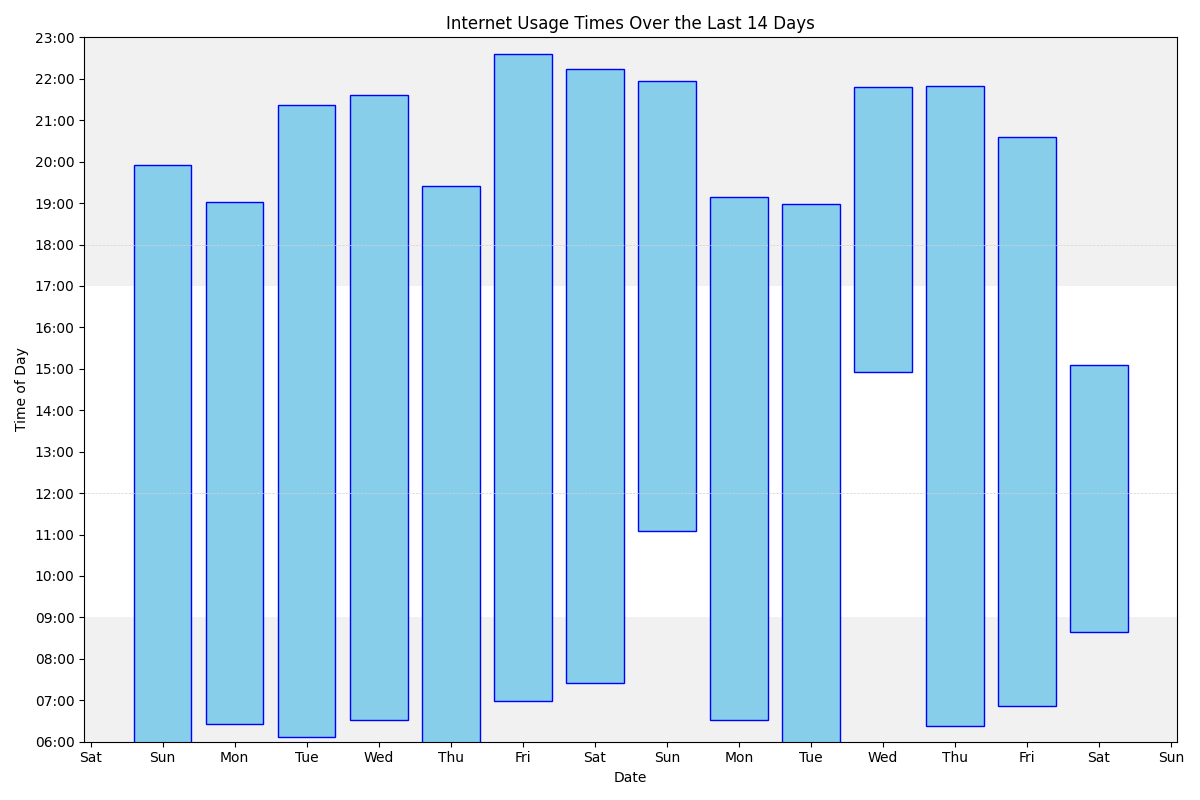
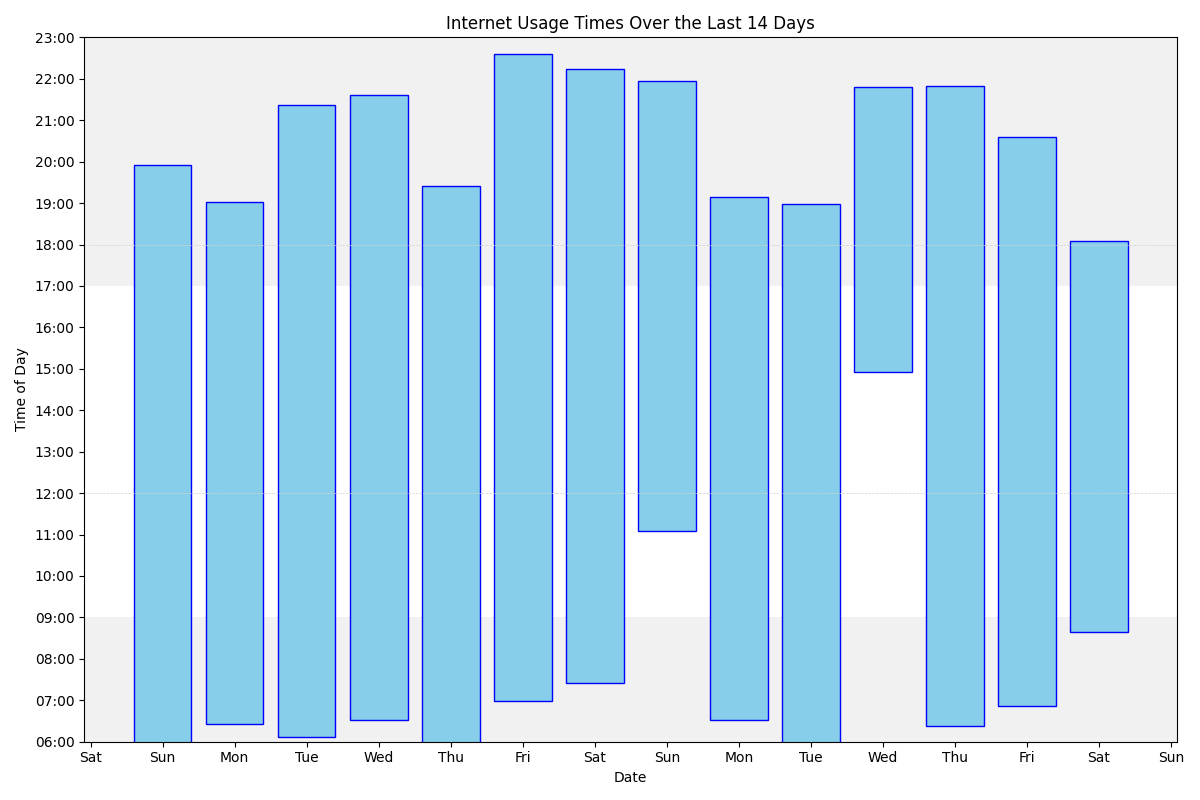
Update

Changed region(s): [[0.8633, 0.2812, 0.9558, 0.4688]]

diff --git a/index.md b/index.md
@@ -68,17 +68,17 @@ ul>li::after {
 <h3> Most common sites</h3>
 With number of accesses/minutes in parentheses
 
-<ol><li>www.google.com (1774)</li>
+<ol><li>www.google.com (1782)</li>
 <li>outlook.office365.com (1017)</li>
-<li>bsky.app (849)</li>
-<li>mail.google.com (838)</li>
+<li>bsky.app (854)</li>
+<li>mail.google.com (840)</li>
 <li>outlook.office.com (712)</li>
 <li>docs.google.com (603)</li>
-<li>www.facebook.com (522)</li>
+<li>www.facebook.com (526)</li>
 <li>rhul-my.sharepoint.com (277)</li>
-<li>chatgpt.com (258)</li>
-<li>www.reddit.com (247)</li>
-<li>www.amazon.co.uk (244)</li>
+<li>chatgpt.com (260)</li>
+<li>www.amazon.co.uk (252)</li>
+<li>www.reddit.com (250)</li>
 <li>moodle.royalholloway.ac.uk (228)</li>
 <li>login.microsoftonline.com (225)</li>
 <li>www.linkedin.com (218)</li>
@@ -105,6 +105,57 @@ With number of accesses/minutes in parentheses
 <ul></ul>
 
 <H3>Saturday, 18/01/25</H3>
+
+<br>
+
+<ul><li> 18:04 www.amazon.co.uk</li>
+<li class='same'> 18:03 www.amazon.co.uk</li>
+<li class='same'> 18:02 www.amazon.co.uk</li>
+<li class='same'> 18:01 www.amazon.co.uk</li>
+<li> 18:00 <a href="https://en.wikipedia.org/wiki/Kobo_eReader">Kobo eReader - Wikipedia</a></li>
+<li> 18:00 www.ebay.co.uk</li>
+<li> 17:59 bsky.app</li>
+<li> 17:59 signin.ebay.co.uk</li>
+<li> 17:57 <a href="https://en.wikipedia.org/wiki/Kobo_Mini">Kobo Mini - Wikipedia</a></li>
+<li> 17:56 www.ebay.co.uk</li>
+<li class='same'> 17:55 www.ebay.co.uk</li>
+<li class='same'> 17:54 www.ebay.co.uk</li>
+<li> 17:54 www.vinted.co.uk</li>
+<li class='same'> 17:53 www.vinted.co.uk</li>
+<li> 17:53 appleid.apple.com</li>
+<li> 17:52 www.vinted.co.uk</li>
+<li> 17:52 bsky.app</li>
+<li> 17:52 <a href="https://en.wikipedia.org/wiki/Kobo_eReader">Kobo eReader - Wikipedia</a></li>
+<li> 17:52 www.google.com</li>
+<li> 17:51 www.reddit.com</li>
+<li> 17:51 www.google.com</li>
+<li class='same'> 17:50 www.google.com</li>
+<li> 17:49 apps.apple.com</li>
+<li> 17:49 www.google.com</li>
+<li class='same'> 17:47 www.google.com</li>
+<li> 17:45 scratch.mit.edu</li>
+<li> 17:45 www.google.com</li>
+<li> 17:44 www.facebook.com</li>
+<li> 17:44 <a href="https://en.wikipedia.org/wiki/Scratch_(programming_language)">Scratch (programming language) - Wikipedia</a></li>
+<li> 17:44 www.google.com</li>
+<li> 17:43 www.fiverr.com</li>
+<li class='same'> 17:42 www.fiverr.com</li>
+<li> 17:42 mail.google.com</li>
+<li> 17:42 www.facebook.com</li>
+<li> 17:38 chatgpt.com</li>
+<li class='same'> 17:37 chatgpt.com</li>
+<li> 17:35 www.fiverr.com</li>
+<li> 17:34 mail.google.com</li>
+<li> 17:34 gmail.com</li>
+<li> 17:34 www.fiverr.com</li>
+<li> 17:33 www.google.com</li>
+<li> 17:26 www.facebook.com</li>
+<li> 17:24 web.whatsapp.com</li>
+<li> 17:23 www.facebook.com</li>
+<li> 17:22 bsky.app</li>
+<li class='same'> 17:21 bsky.app</li>
+<li class='same'> 17:20 bsky.app</li>
+</ul>
 
 <br>
 
@@ -14979,6 +15030,7 @@ With number of accesses/minutes in parentheses
 <br>
 
 <ul><li class='same'> 07:15 rhul-my.sharepoint.com</li>
+<li> 07:06 www.reddit.com</li>
 <li> 06:58 <a href="https://xkcd.com/simplewriter/"></a></li>
 <li> 06:50 outlook.office365.com</li>
 </ul>
@@ -15019,8 +15071,10 @@ With number of accesses/minutes in parentheses
 
 <br>
 
-<ul><li> 06:37 www.amazon.co.uk</li>
+<ul><li> 06:41 www.reddit.com</li>
+<li> 06:37 www.amazon.co.uk</li>
 <li> 06:28 www.ebay.co.uk</li>
+<li> 06:27 www.vinted.co.uk</li>
 </ul>
 
 <H3>Saturday, 12/10/24</H3>
@@ -15482,6 +15536,7 @@ With number of accesses/minutes in parentheses
 <li> 17:04 <a href="https://www.bbc.co.uk/news">Home - BBC News</a></li>
 <li> 16:37 forms.tvlicensing.co.uk</li>
 <li> 16:34 www.google.com</li>
+<li> 16:29 www.vinted.co.uk</li>
 <li> 16:28 www.ebay.co.uk</li>
 <li> 16:15 outlook.office365.com</li>
 <li> 16:11 docs.google.com</li>
@@ -18463,7 +18518,8 @@ With number of accesses/minutes in parentheses
 
 <br>
 
-<ul><li> 14:48 www.nestpensions.org.uk</li>
+<ul><li> 14:51 www.vinted.co.uk</li>
+<li> 14:48 www.nestpensions.org.uk</li>
 <li class='same'> 14:47 www.nestpensions.org.uk</li>
 <li> 14:46 mail.google.com</li>
 <li> 14:45 www.nestpensions.org.uk</li>
@@ -20529,6 +20585,7 @@ With number of accesses/minutes in parentheses
 <ul><li> 07:44 mail.google.com</li>
 <li class='same'> 07:43 mail.google.com</li>
 <li> 07:34 www.amazon.co.uk</li>
+<li class='same'> 07:33 www.amazon.co.uk</li>
 <li class='same'> 07:28 www.amazon.co.uk</li>
 <li class='same'> 07:20 www.amazon.co.uk</li>
 <li class='same'> 07:15 www.amazon.co.uk</li>
@@ -24736,11 +24793,21 @@ With number of accesses/minutes in parentheses
 <li class='same'> 12:28 www.vimgolf.com</li>
 </ul>
 
+<br>
+
+<ul><li> 09:40 www.amazon.co.uk</li>
+</ul>
+
 <H3>Sunday, 20/08/23</H3>
 
 <br>
 
 <ul></ul>
+
+<br>
+
+<ul><li class='same'> 12:39 www.amazon.co.uk</li>
+</ul>
 
 <br>
 
@@ -25014,6 +25081,11 @@ With number of accesses/minutes in parentheses
 <br>
 
 <ul></ul>
+
+<br>
+
+<ul><li class='same'> 14:58 www.amazon.co.uk</li>
+</ul>
 
 <br>
 
